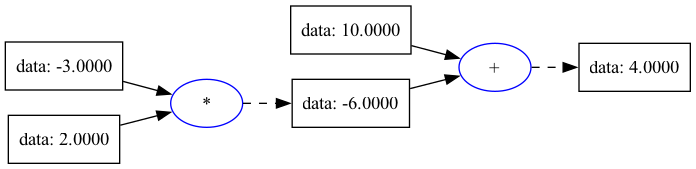
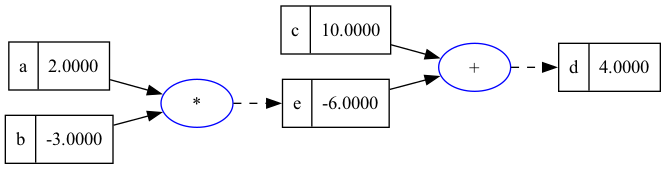
adding labels to nodes

diff --git a/micrograd_from_scratch.py b/micrograd_from_scratch.py
@@ -51,10 +51,11 @@ class Value:
     ## Adding pointers to keep track of the children of the node
     ## Keep track of the operation that created the node
     ## Visualizing the graph
-    def __init__(self, data, _children=(), _op=''): 
+    def __init__(self, data, _children=(), _op='', label=''): 
         self.data = data 
         self._prev = set(_children)
         self._op = _op
+        self.label = label
 
     def __repr__(self):
         return f"Value(data={self.data})"
@@ -67,10 +68,12 @@ class Value:
         out = Value(self.data * other.data, (self, other), '*')
         return out
 
-a = Value(2.0)
-b = Value(-3.0)
-c = Value(10.0)
-output = a * b + c
+a = Value(2.0, label='a')
+b = Value(-3.0, label='b')
+c = Value(10.0, label='c')
+e = a * b; e.label = "e"
+d = e + c; d.label = "d"
+output = d
 
 
 
@@ -95,12 +98,15 @@ def draw_dot(root):
         if n._op:  # If it's an operation node
             # Create an oval node for the operation
             dot.node(name=uid+"_op", label=n._op, shape='ellipse', color='blue')
-            # Create a node for the data
-            dot.node(name=uid, label=f"data: {n.data:.4f}", shape='record')
+            # Create a node for the data with a label 
+            node_label = f"{n.label} | {n.data:.4f}" if n.label else f"data: {n.data:.4f}"
+            dot.node(name=uid, label="{ %s }" % node_label, shape='record')
             # Add an edge from the operation node to the data node
             dot.edge(uid+"_op", uid, style='dashed')
         else:
-            dot.node(name=uid, label=f"data: {n.data:.4f}", shape='record')
+            # For leaf nodes (data nodes without operations)
+            node_label = f"{n.label} | {n.data:.4f}" if n.label else f"data: {n.data:.4f}"
+            dot.node(name=uid, label="{ %s }" % node_label, shape='record')
         
     # Add edges
     for n1, n2 in edges:
@@ -114,6 +120,8 @@ def draw_dot(root):
     # Save the graph to a file
     dot.render('computation_graph', format='png', cleanup=True)
     return dot
+
+
 
 
 print("Output:", output)
